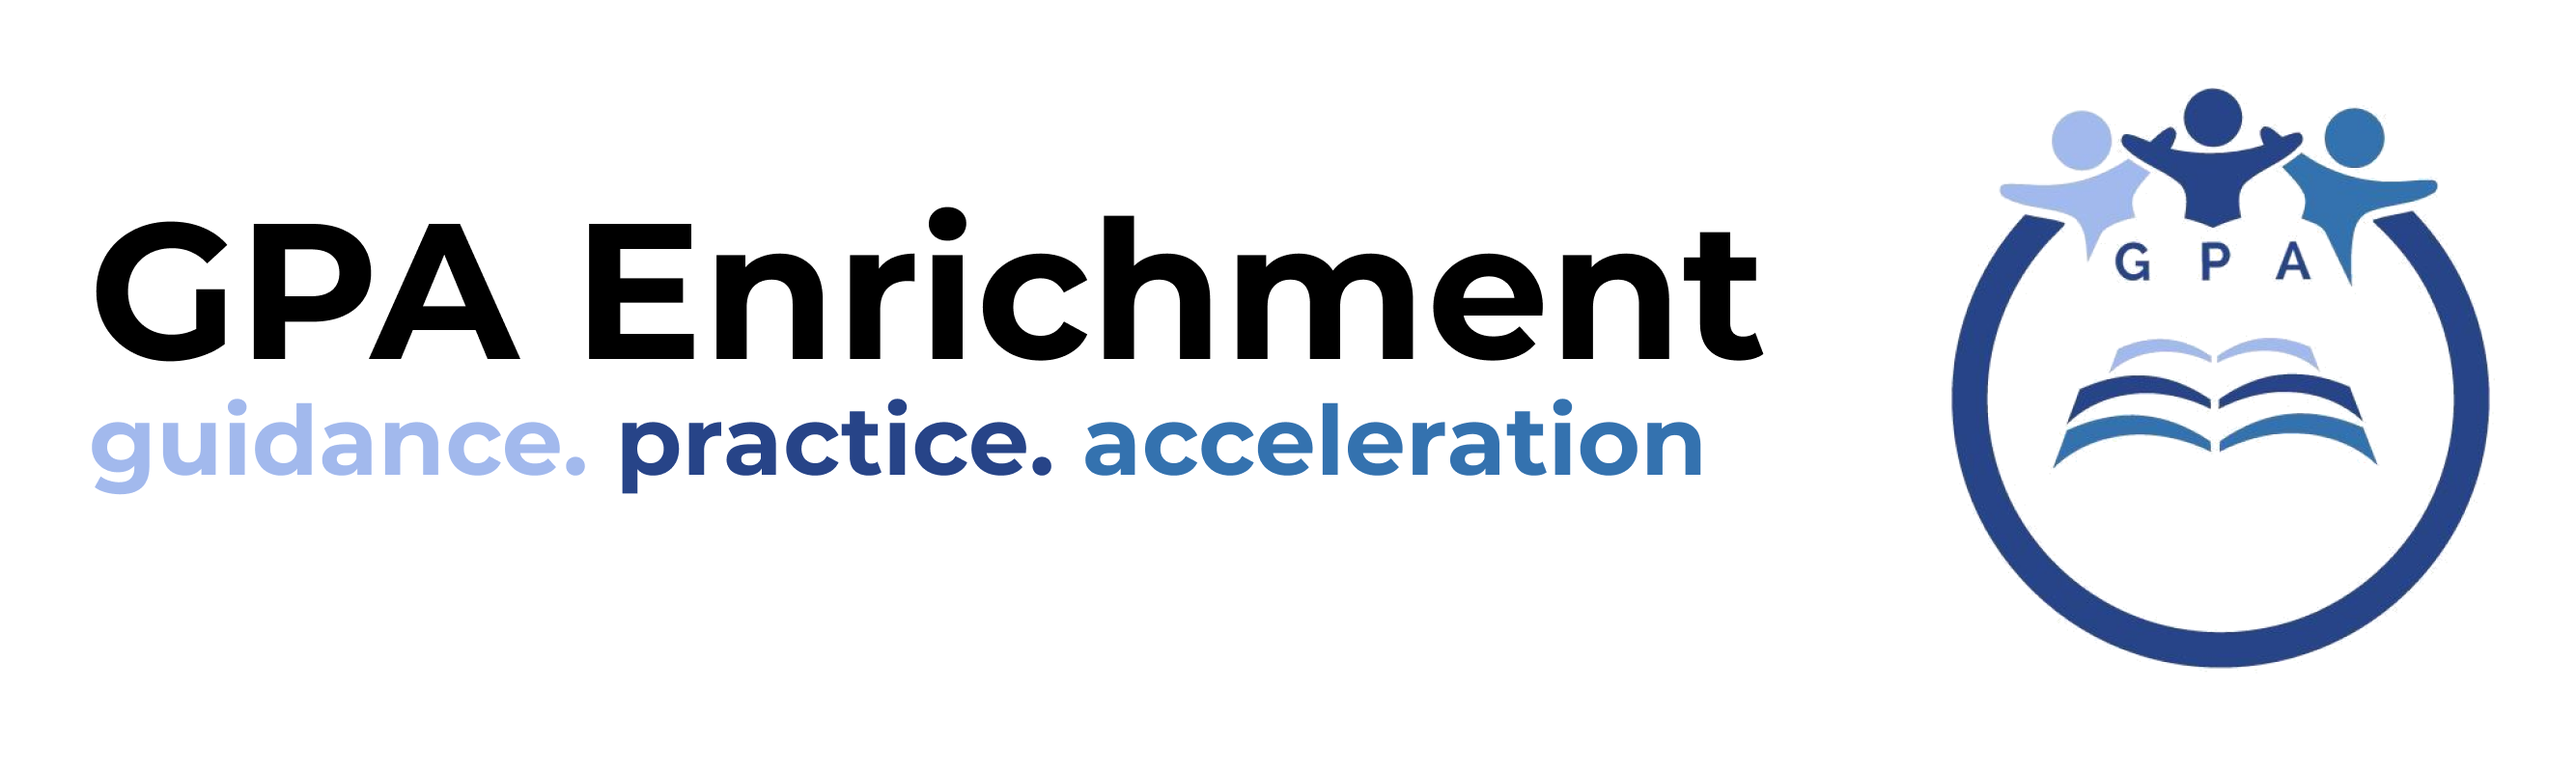
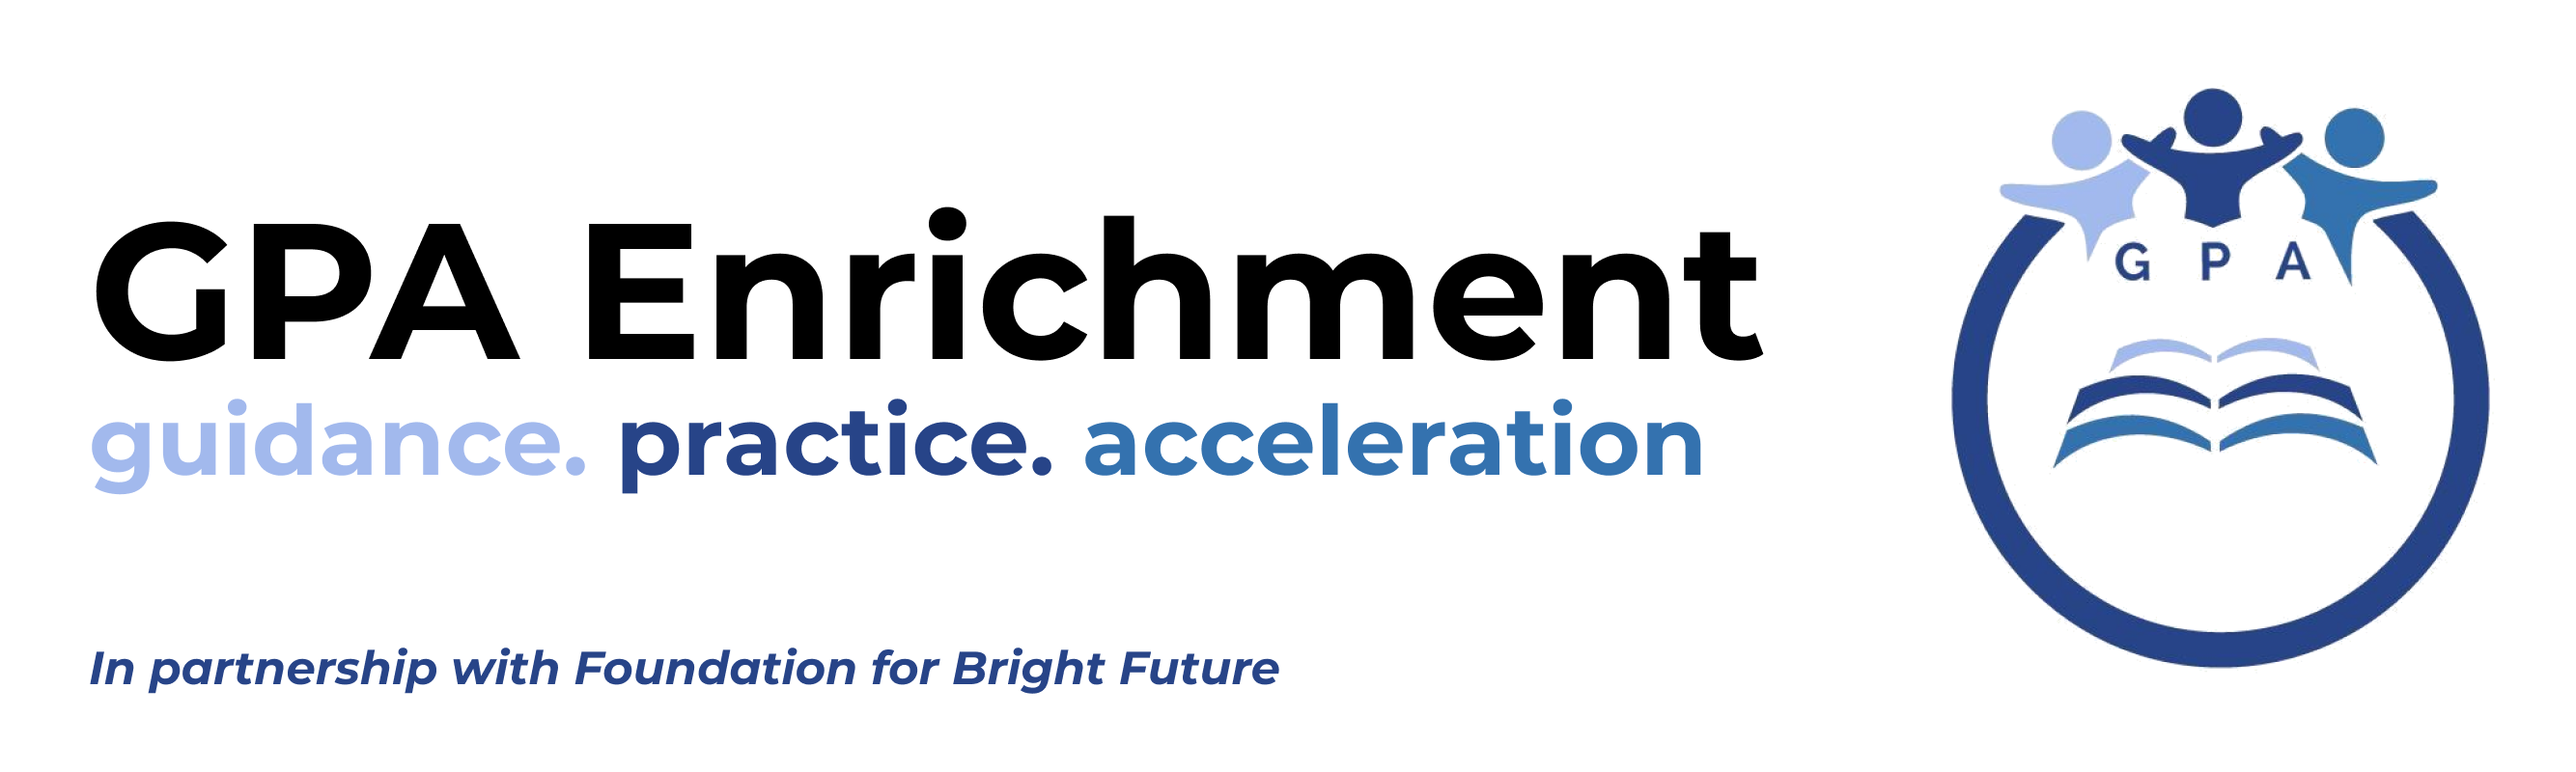
first foundation for bright future commit

Changed region(s): [[0.0311, 0.8438, 0.4978, 0.9062]]

diff --git a/about.html b/about.html
@@ -45,6 +45,23 @@
   </div>
   <div class="separator"></div>
 
+  <div class="foundationforbrighterfuture">
+    <div style="height:160px;"></div>
+    <img src="img/gpaexffbf.png" alt="GPAE and FFBF" width=60% height=auto>
+    <div style="height:40px;"></div>
+    <h1>GPA Enrichment and Foundation for Bright Future</h1>
+    <p><span style="color:#3572B0;font-weight:bold;">Foundation for Bright Future</span>
+      is an organization dedicated to improving access to education, healthcare,
+      and better living conditions for children around the world. This US-based
+      organization has supported and funded over 200 children with Balodyan, an
+      organization working to improve India's rural education system. <br><br>
+      <br>GPA Enrichment is partnered with FFBF to bring free educational
+      opportunities to students in the United States, while hosting year-round
+      fundraisers to donate to other organizations supporting students'
+      education around the world.</p>
+      <div style="height:100px;"></div>
+  </div>
+
   <h1>Our Director Team</h1>
 
   <div class="responsive">

diff --git a/css/about.css b/css/about.css
@@ -41,12 +41,25 @@ a.header {
   clear: both;
 }
 
+.foundationforbrighterfuture {
+  text-align: center;
+}
+
 h1 {
   text-align: center;
   font-weight: bold;
   color: #274488;
   font-size: 60px;
   padding: 30px;
+  margin: 20px;
+}
+
+p {
+  padding: 0px;
+  font-size: 30px;
+  text-align: left;
+  margin-left: 100px;
+  margin-right: 100px;
 }
 
 h2 {
